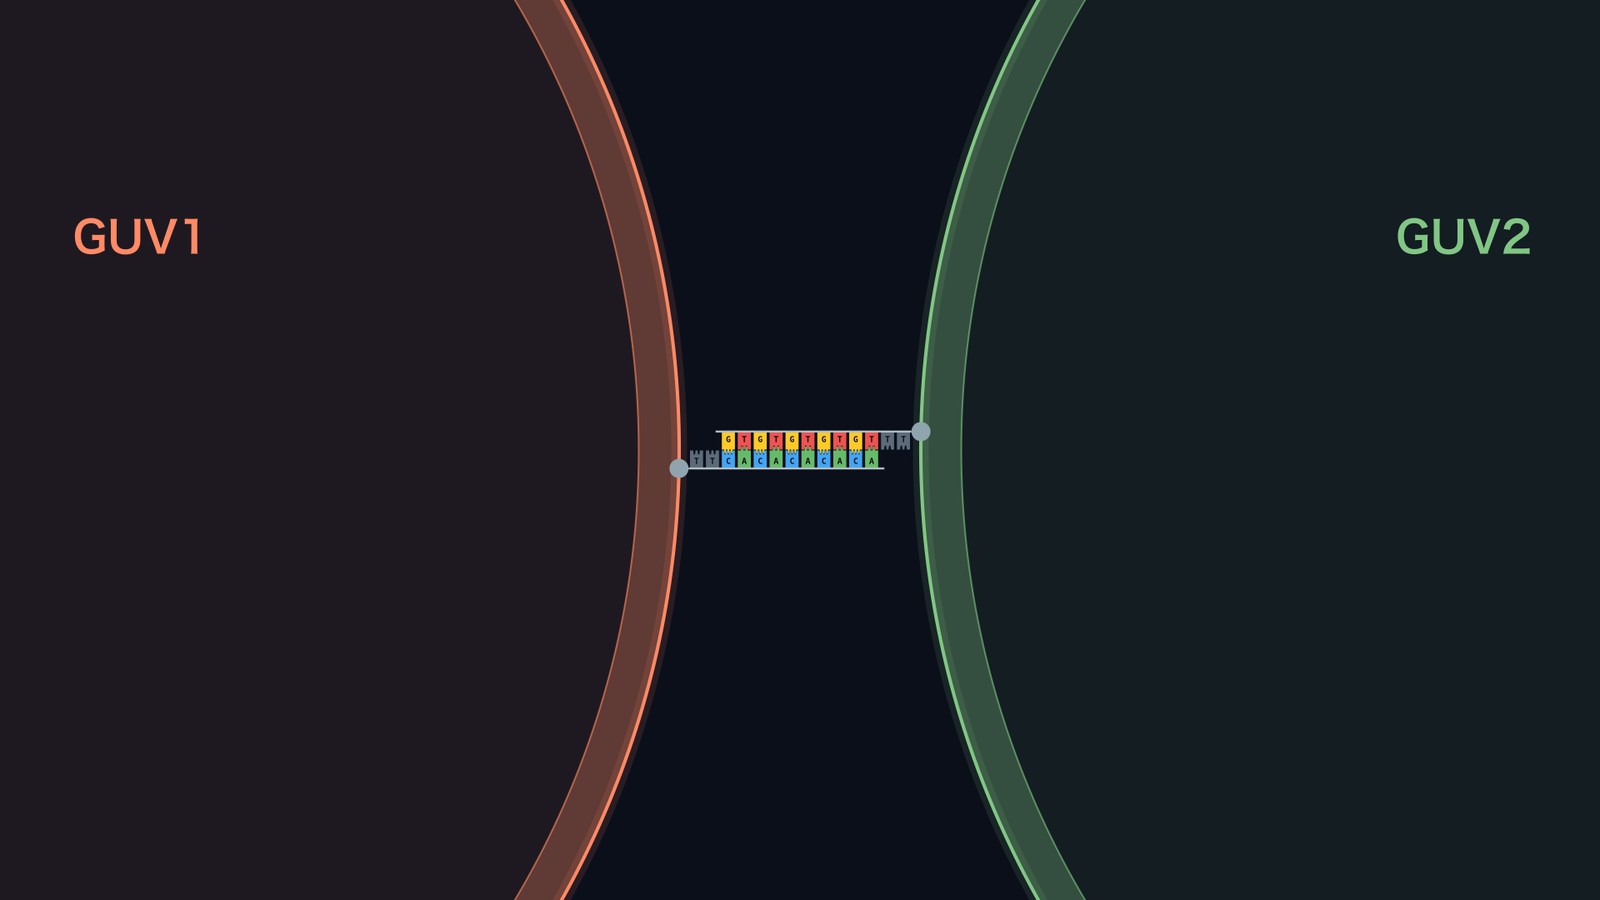
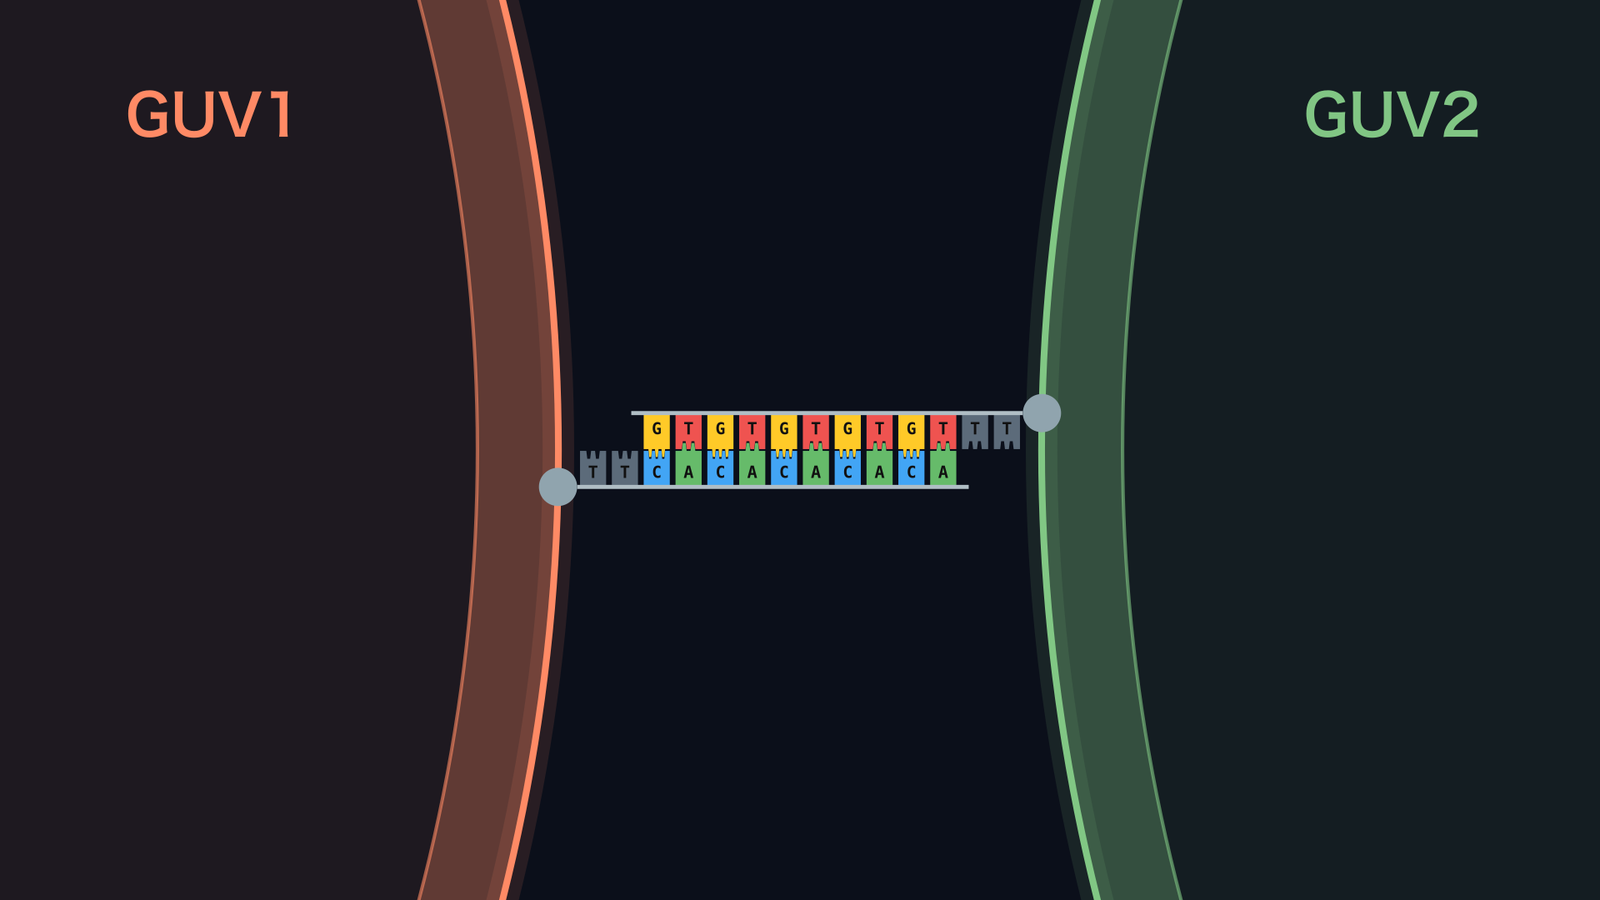
Design: zoom Weak Binding images on the DNA with labels inside the membranes; reword Fig. 2 caption

diff --git a/design.html b/design.html
@@ -93,7 +93,7 @@
                     <h3 class="sub-title" id="sequence-specific-binding">Sequence-Specific Binding</h3>
                     <figure>
                         <img src="images/design-specific-binding.png" alt="GUV1 connected to GUV2 and GUV2 connected to GUV3, with a second GUV1 and GUV3 below that are close to each other but not connected">
-                        <figcaption>Fig. 2 DNA with different sequences lets GUV1 bind GUV2 and GUV2 bind GUV3, while GUV1 and GUV3 come close to each other but do not connect.</figcaption>
+                        <figcaption>Fig. 2 DNA with different sequences lets GUV1 bind GUV2 and GUV2 bind GUV3, while GUV1 and GUV3, which have no complementary sequences, do not connect.</figcaption>
                     </figure>
 
                     <p>
